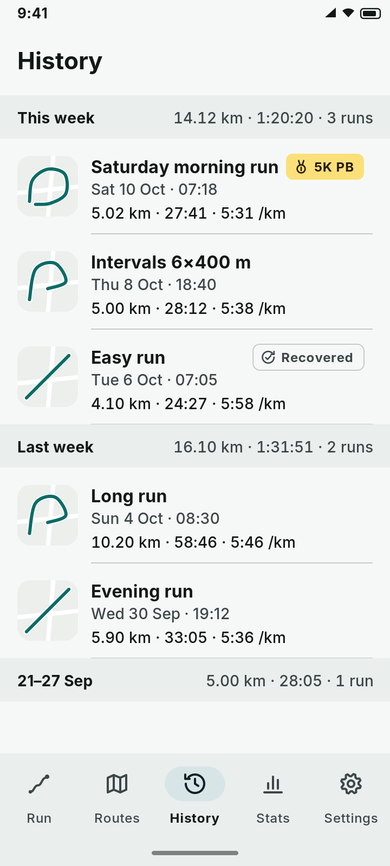
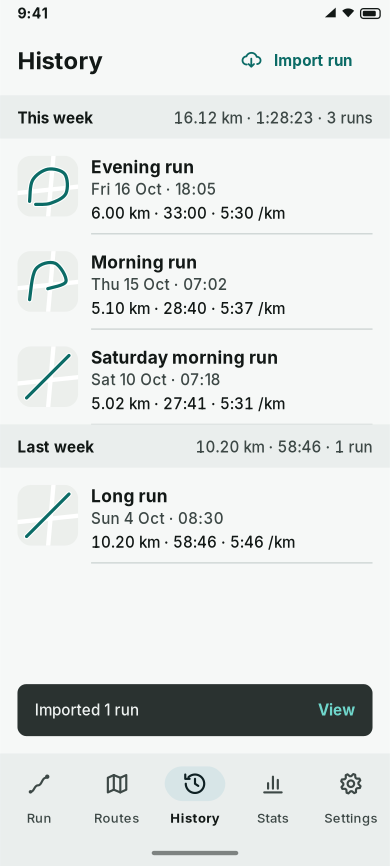
Add run import, treadmill mode and save image features

diff --git a/index.html b/index.html
@@ -123,7 +123,7 @@
               <svg viewBox="0 0 24 24" fill="none" stroke="currentColor" stroke-width="2"><path d="M4 17c3-6 6-9 8-9s5 3 8 9"/><circle cx="12" cy="8" r="2"/></svg>
             </div>
             <h3>Routes</h3>
-            <p>Plan a loop, follow it on the run. Export GPX or Garmin FIT for your watch via share.</p>
+            <p>Plan a loop, follow it on the run. Export a GPX route or FIT course for your watch app.</p>
           </article>
           <article class="feature">
             <div class="feature-icon" aria-hidden="true">
@@ -131,6 +131,27 @@
             </div>
             <h3>Share cards</h3>
             <p>Clean trace cards for social, start and finish hidden.</p>
+          </article>
+          <article class="feature">
+            <div class="feature-icon" aria-hidden="true">
+              <svg viewBox="0 0 24 24" fill="none" stroke="currentColor" stroke-width="2"><path d="M12 3.5v11"/><path d="M7.5 10l4.5 4.5 4.5-4.5"/><path d="M5 20h14"/></svg>
+            </div>
+            <h3>Save share images</h3>
+            <p>Save any share card to your gallery, in Pictures/Go Farva.</p>
+          </article>
+          <article class="feature">
+            <div class="feature-icon" aria-hidden="true">
+              <svg viewBox="0 0 24 24" fill="none" stroke="currentColor" stroke-width="2"><rect x="7" y="6" width="10" height="12" rx="3"/><path d="M9 6V3h6v3M9 18v3h6v-3"/><path d="M12 9v4l2 1"/></svg>
+            </div>
+            <h3>Import from watch apps</h3>
+            <p>Open GPX, FIT or TCX files from your watch app. Imported runs get a map, stats and share cards.</p>
+          </article>
+          <article class="feature">
+            <div class="feature-icon" aria-hidden="true">
+              <svg viewBox="0 0 24 24" fill="none" stroke="currentColor" stroke-width="2"><path d="M3 18h18"/><path d="M5 18l2-6h10l2 6"/><path d="M9 9a3 3 0 1 1 6 0"/></svg>
+            </div>
+            <h3>Treadmill mode</h3>
+            <p>No GPS needed: distance from your steps, matched to the treadmill's reading after each run.</p>
           </article>
         </div>
       </div>
@@ -145,7 +166,7 @@
             <li>Pace, distance and time at a glance</li>
             <li>Light and dark themes</li>
             <li>Crash-safe: recovers a run if the app is closed</li>
-            <li>Audio pace coach and a free 9-week build plan</li>
+            <li>Pro: audio pace coach and a 9-week run/walk plan</li>
           </ul>
         </div>
         <div class="phone-row">
@@ -157,7 +178,7 @@
           </figure>
           <figure class="phone-fig">
             <div class="phone">
-              <img src="/assets/screens/history.png" alt="History list of past runs" width="390" height="866" loading="lazy">
+              <img src="/assets/screens/history.png" alt="History list of past runs with an Import run button" width="390" height="866" loading="lazy">
             </div>
             <figcaption>Your runs, on your phone</figcaption>
           </figure>
@@ -204,11 +225,11 @@
           </details>
           <details class="faq-item">
             <summary>What does £4.99 get me?</summary>
-            <p>A one-off Pro unlock through Google Play. No subscription, no ads. Pro adds stats, the route builder, watch export (GPX and Garmin FIT via the share sheet), Strava ZIP import, and more.</p>
+            <p>A one-off Pro unlock through Google Play. No subscription, no ads. Pro adds stats, the route builder, watch export (GPX and FIT via the share sheet), the 9-week run/walk plan, Strava export ZIP import, and more. Importing single GPX, FIT or TCX files is free.</p>
           </details>
           <details class="faq-item">
             <summary>Does it sync with Strava or Garmin?</summary>
-            <p>No automatic sync. You can import a Strava ZIP export into the app, and you can share a route as GPX or Garmin FIT to load on your watch yourself. Health Connect is optional and write-only: if you turn it on, finished runs can be written to Health Connect — nothing is read back.</p>
+            <p>No automatic sync. You can import a Strava ZIP export into the app, and you can share a route as GPX or FIT to load on your watch yourself. Health Connect is optional and write-only: if you turn it on, finished runs can be written to Health Connect — nothing is read back.</p>
           </details>
         </div>
       </div>

diff --git a/privacy/index.html b/privacy/index.html
@@ -56,6 +56,8 @@
 
         <h2>What stays on your phone</h2>
         <p>When you record a run, Go Farva stores on the device: GPS points, times, distance, pace, splits, and (if you use Pro) personal bests, totals and plans. Settings and Pro unlock status are also stored locally.</p>
+        <p><strong>Treadmill mode</strong> uses the phone’s step counter (the “Physical activity” permission); steps are processed and stored on the device only.</p>
+        <p><strong>Imported GPX, FIT or TCX files</strong> are read locally on the phone; nothing is uploaded.</p>
         <p><strong>Deleting a run</strong> in the app removes it. <strong>Uninstalling</strong> the app removes the remaining data. There is no account to delete with us.</p>
 
         <h2>Location</h2>

diff --git a/css/styles.css b/css/styles.css
@@ -231,7 +231,7 @@ section { padding: 3.5rem 0; }
 /* Feature cards */
 .features {
   display: grid;
-  grid-template-columns: repeat(5, 1fr);
+  grid-template-columns: repeat(4, 1fr);
   gap: 1rem;
 }
 .feature {
@@ -542,7 +542,7 @@ section { padding: 3.5rem 0; }
 
 /* Responsive */
 @media (max-width: 960px) {
-  .features { grid-template-columns: repeat(3, 1fr); }
+  .features { grid-template-columns: repeat(2, 1fr); }
   .hero-grid,
   .screens-grid,
   .share-block { grid-template-columns: 1fr; }
